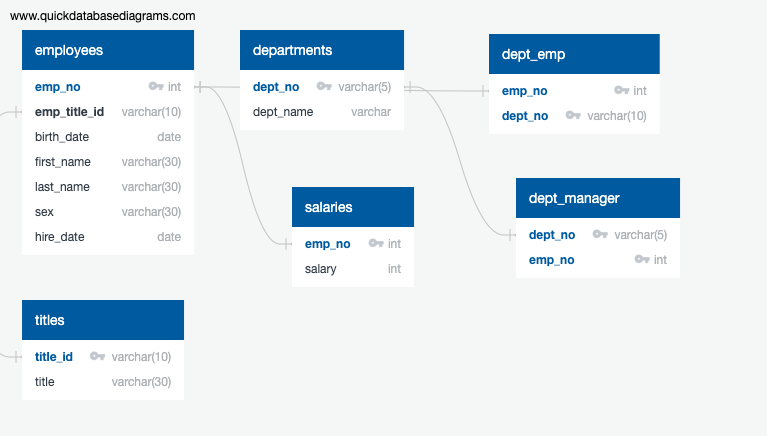
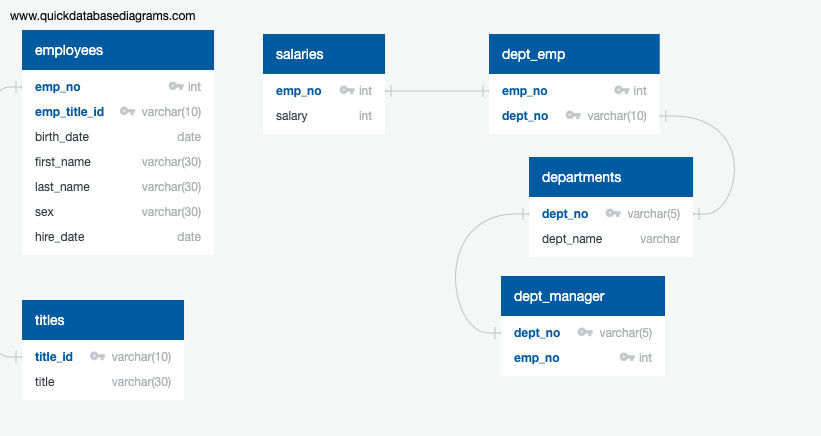
tables created and foreign keys linked with no errors; readme modified.

diff --git a/README.md b/README.md
@@ -1,2 +1,14 @@
 # sql-challenge
-SQL Homework
+SQL Challenge (Homework)
+
+It is a beautiful spring day, and it is two weeks since you have been hired as a new data engineer at Pewlett Hackard. Your first major task is a research project on employees of the corporation from the 1980s and 1990s. All that remain of the database of employees from that period are six CSV files.
+
+Data Modeling
+
+By inspecting the 6 .csv files, I was able to create an entity relationship diagram that shows a visual of each entity and the info of each employee, salary, title, and department info and how they all tie together. There isn't one table with all the information to perform an analysis, so developing an ERD helps the flow of our findings
+
+Data Engineering
+
+Once the ERD is created, a script was created to develop each table which is based on the .csv files (found in the EmployeeSQL folder). Using PgAdmin4, i created a Pewlett Hackard database and imported all .csv files, so that the info could be pulled into our tables.
+
+Data Analysis
